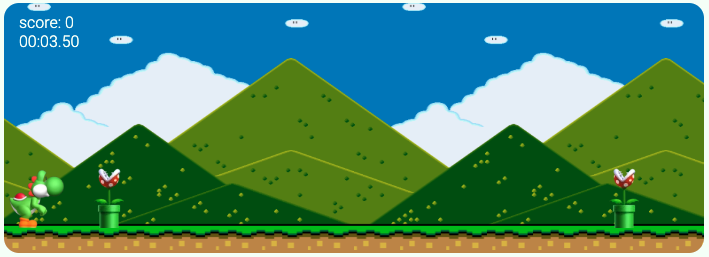
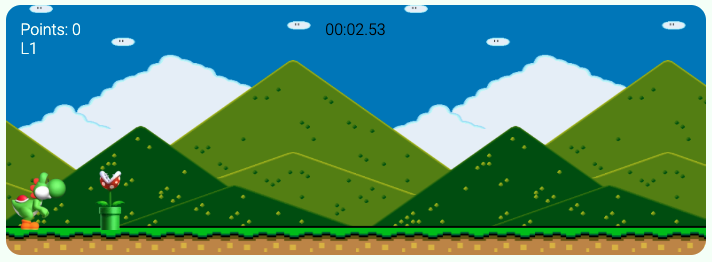
implemented levels

diff --git a/javascript/index.js b/javascript/index.js
@@ -3,11 +3,13 @@ class Game {
     this.player = null;
     this.obstacle = [];
 
-    this.timeElement = document.getElementById("time");
     this.scoreElement = document.querySelector("#score span");
+    this.levelElement = document.querySelector("#level span");
+    this.timeElement = document.getElementById("time");
 
-    this.currentTime = 0;
     this.score = 0;
+    this.level = 1;
+    this.currentTime = 0;
   }
 
   start() {
@@ -64,14 +66,16 @@ class Game {
     ) {
       clearInterval(this.gameInterval);
 
-      // display timer and score when game is over
+      // display timer, score  and level when the game is over
       this.gameDiv = document.getElementById('game')
       this.gameoverElement = document.getElementById("gameover");
 
       this.gameoverScore = document.getElementById('gameoverScore');
+      this.gameoverLevel = document.getElementById('gameoverLevel');
       this.gameoverTime = document.getElementById('gameoverTime');
 
-      this.gameoverScore.innerText = `Score: ${this.score}`;
+      this.gameoverScore.innerText = `You have jumped over ${this.score} obstacles`;
+      this.gameoverLevel.innerText = `Level: ${this.level}`;
       this.gameoverTime.innerText = this.displayTimer;
 
       this.gameDiv.remove();
@@ -91,6 +95,14 @@ class Game {
       // for every obstable cleared - score++;
       this.score++;
       this.scoreElement.innerText = this.score;
+
+      // for every 10 obstacle cleared - level++ and obstacle sliding faster
+      if(this.score %  10 === 0){
+        this.level++;
+        this.levelElement.innerText = `L${this.level}`;
+        
+        this.obsPosition *= 2;
+      }
     }
   }
 
@@ -134,7 +146,7 @@ class Yoshi {
 
   jump() {
     this.timerId = setInterval(() => {
-      if (this.jumpTimer === 5) {
+      if (this.jumpTimer === 6 ) {
         clearInterval(this.timerId);
         this.downTimerId = setInterval(() => {
           if (this.jumpTimer === 1) {
@@ -144,12 +156,12 @@ class Yoshi {
           this.x -= 25;
           this.jumpTimer--;
           this.domElement.style.bottom = this.x + "px";
-        }, 30);
+        }, 25);
       }
       this.jumpTimer++;
       this.x += 25;
       this.domElement.style.bottom = this.x + "px";
-    }, 30);
+    }, 25);
   }
 }
 
@@ -181,7 +193,7 @@ class Obstacle {
   }
 
   slideLeft() {
-    this.obsPosition -= 5;
+    this.obsPosition -= 7;
     this.domElement.style.left = this.obsPosition + "px";
   }
 }

diff --git a/game.html b/game.html
@@ -17,9 +17,10 @@
 
       <div id="container">
         <div class="tracker">
-          <div id="score">Score: <span>0</span></div>
-          <div id="time"><span>00:00.00</span></div>
+          <div id="score">Points: <span>0</span></div> 
+          <div id="level"><span>L1</span></div>
         </div>
+        <div id="time"><span>00:00.00</span></div>
       </div>
 
       <audio controls autoplay>
@@ -34,6 +35,7 @@
 
       <div id="display-result">
         <div id="gameoverScore"><span>0</span></div>
+        <div id="gameoverLevel"><span>0</span></div>
         <div id="gameoverTime"><span>00:00.00</span></div>
       </div>
 

diff --git a/css/style.css b/css/style.css
@@ -100,8 +100,14 @@ a {
   color: #f6fff8;
 
   position: absolute;
-  top: 10px;
+  top: 15px;
   left: 15px;
+}
+
+#time {
+  text-align: center;
+  position: relative;
+  top: 15px;
 }
 
 /* tag game over - in the game */

diff --git a/README.md b/README.md
@@ -2,7 +2,9 @@
 
 ## Description
 
-This project is about Yoshi, who is part of a loop of random obstacles coming his way. The goal is, jump over the obstacles as the timer rolls; and you score a point every time you successfully jump over the obstacle.
+This project is about Yoshi, who is part of a loop of random obstacles coming his way. 
+
+The goal is, jump over the obstacles as the timer rolls; and you will score a point for every time you successfully jump over the obstacle. Plus, for every 10 obstacles jumped over, you get to level up. The obstacles' speed will increase as you level up.
 
 It has a very simple and clean design. You just have to click on the button in the main page, and that will redirect you to the game.
 
